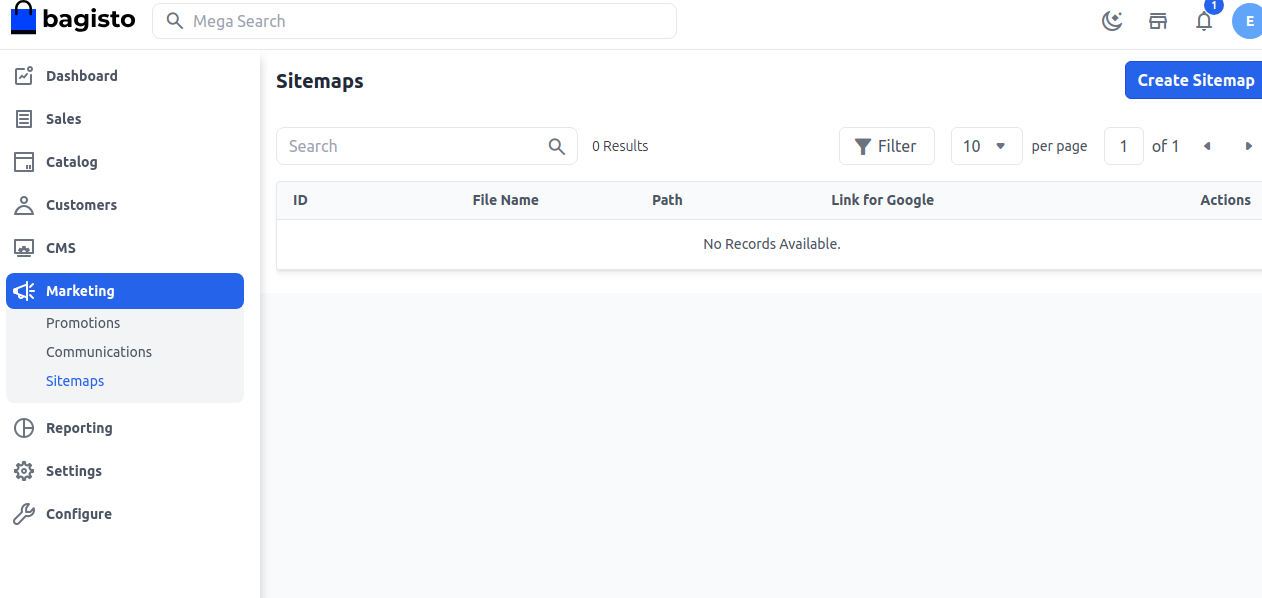
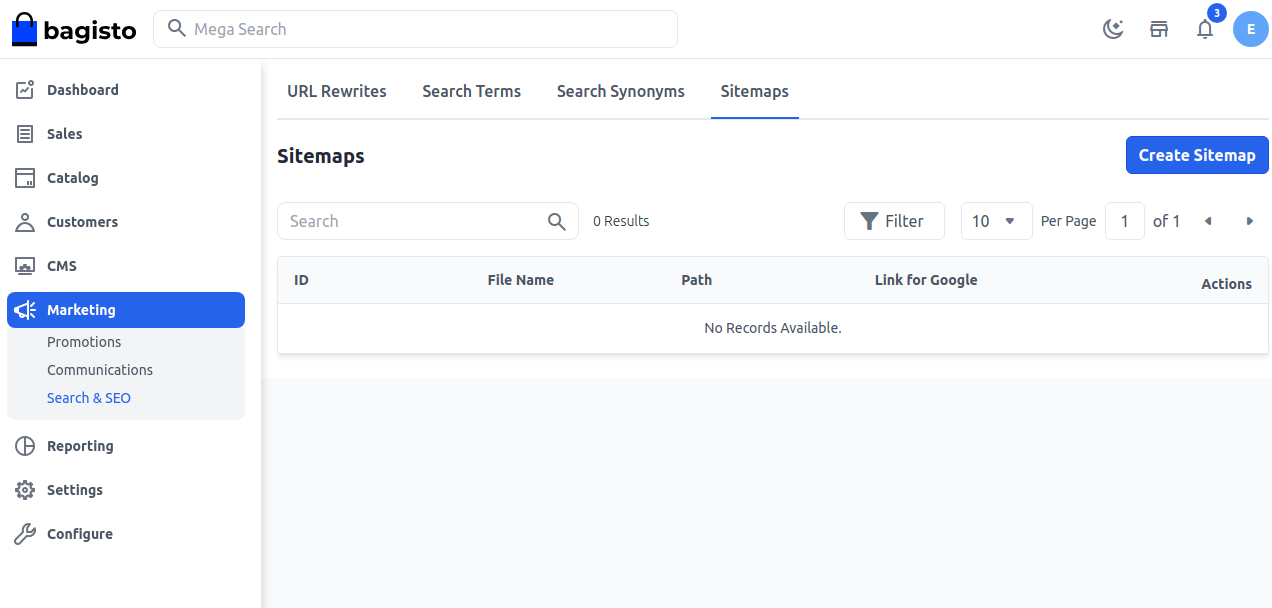
Sitemaps Refactor

diff --git a/docs/2.1.0/marketing/searchseo.md b/docs/2.1.0/marketing/searchseo.md
@@ -102,7 +102,7 @@ Sitemaps inform search engines which pages on a website should be crawled, and m
 
 ### Step 1: Add New Sitemap
 
-1. On Admin panel, go to **Marketing >> Sitemaps** click on **Create Sitemap** as shown in below image
+1. On Admin panel, go to **Marketing >> Search & SEO >> Sitemaps** click on **Create Sitemap** as shown in below image
 
  ![Create Sitemap](../../assets/2.1.0/images/marketing/createSitemap.png)
 
